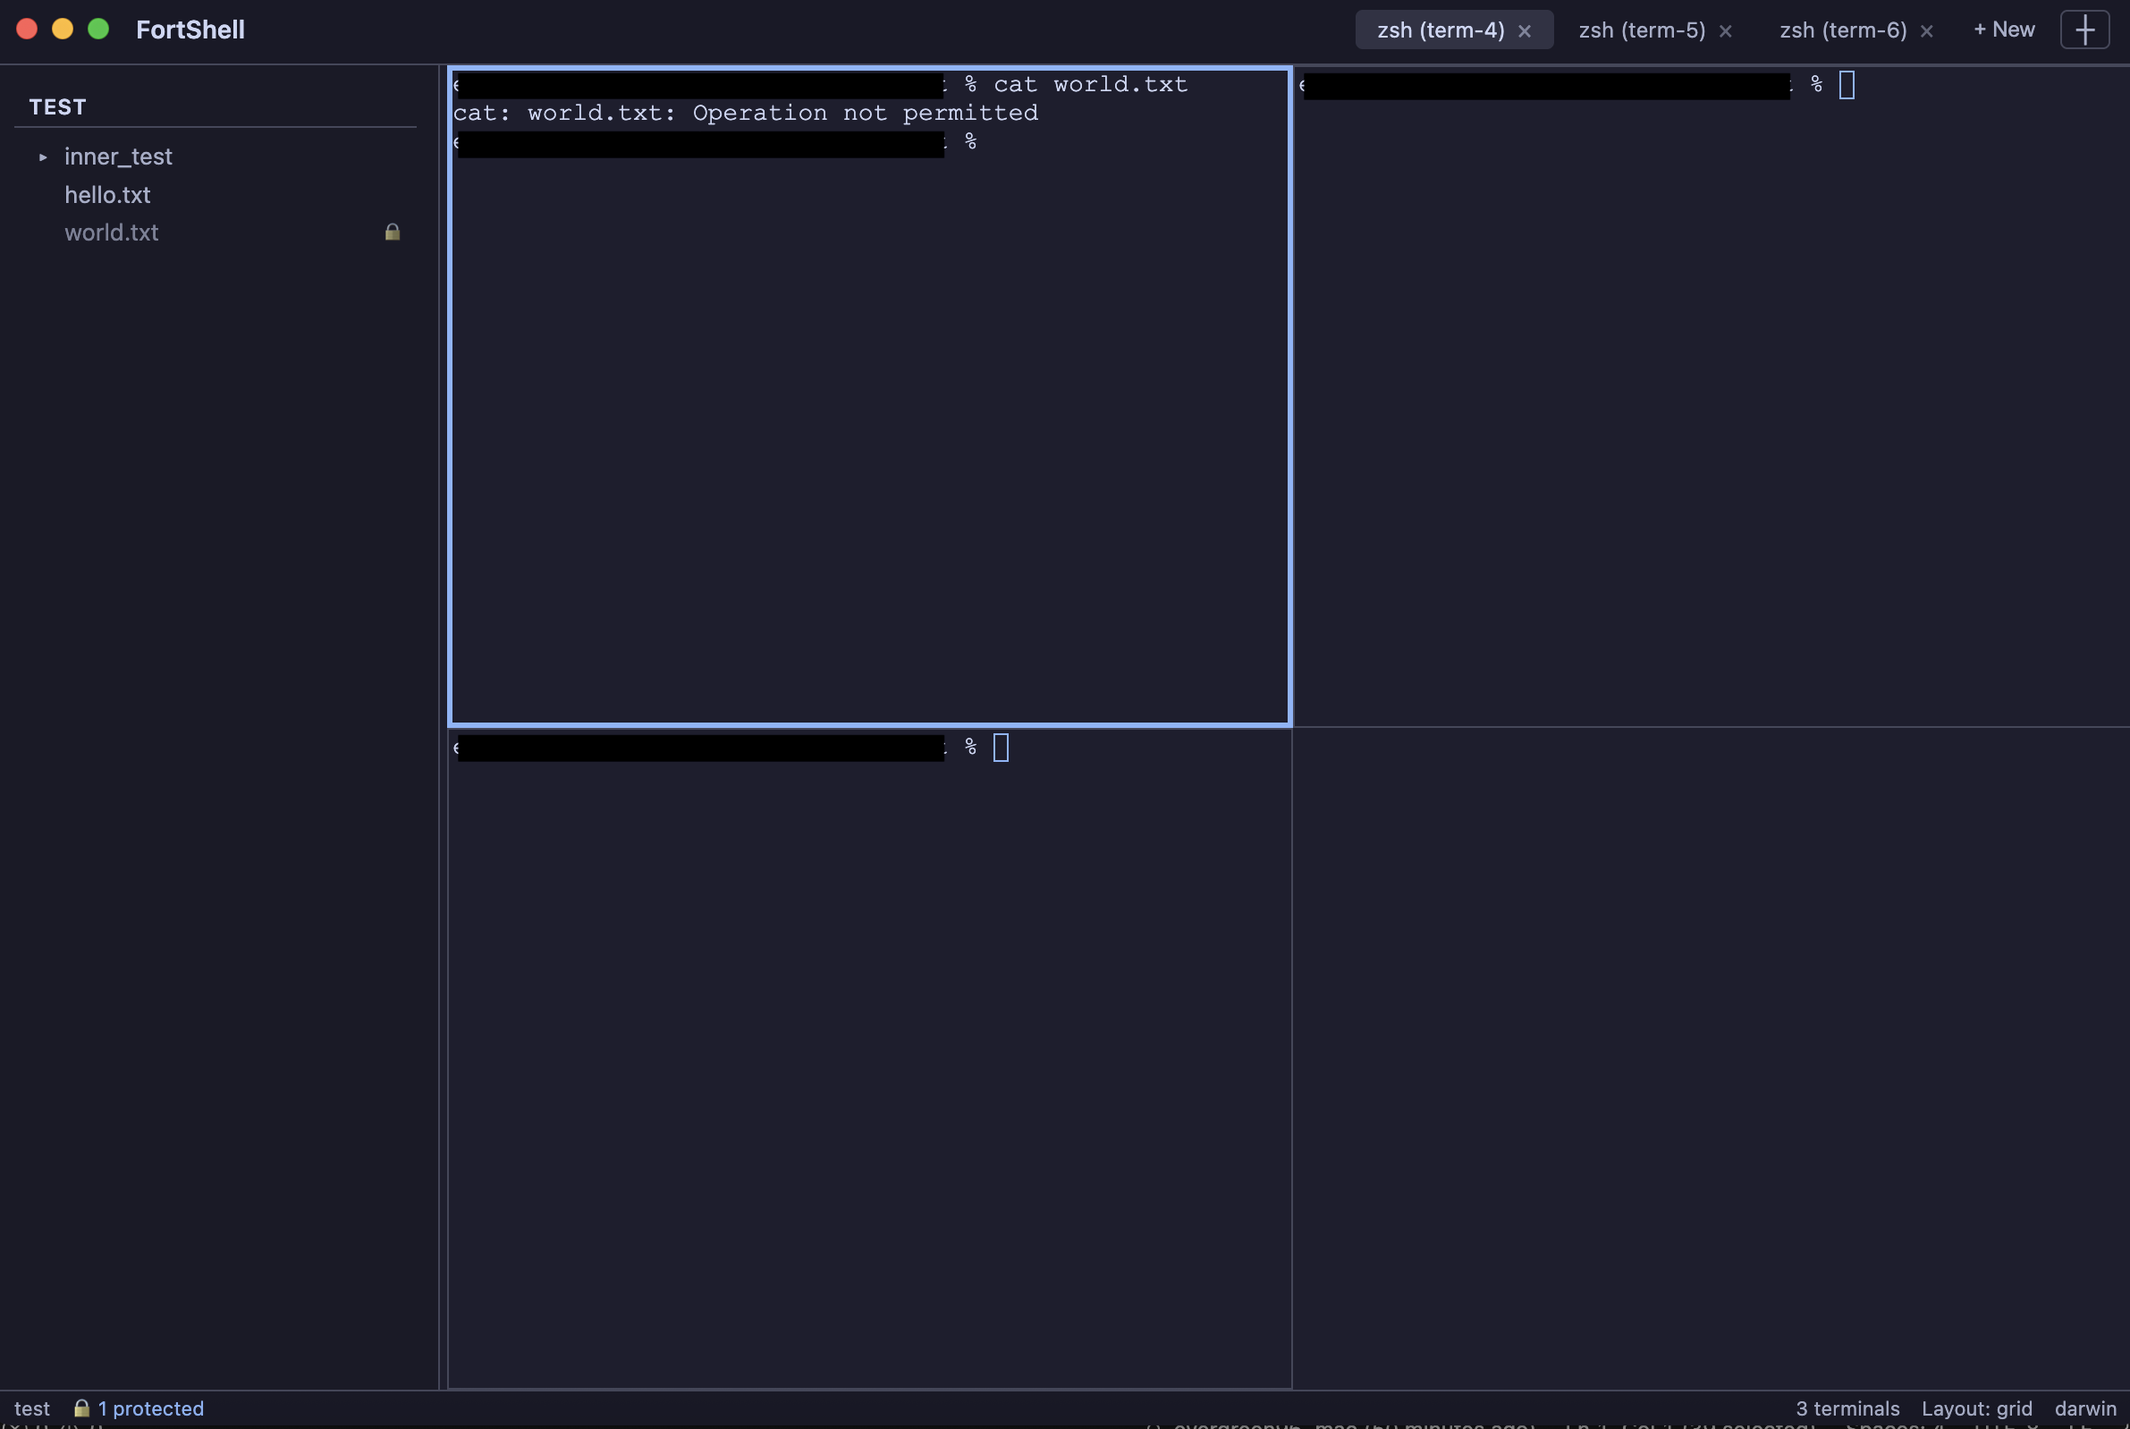
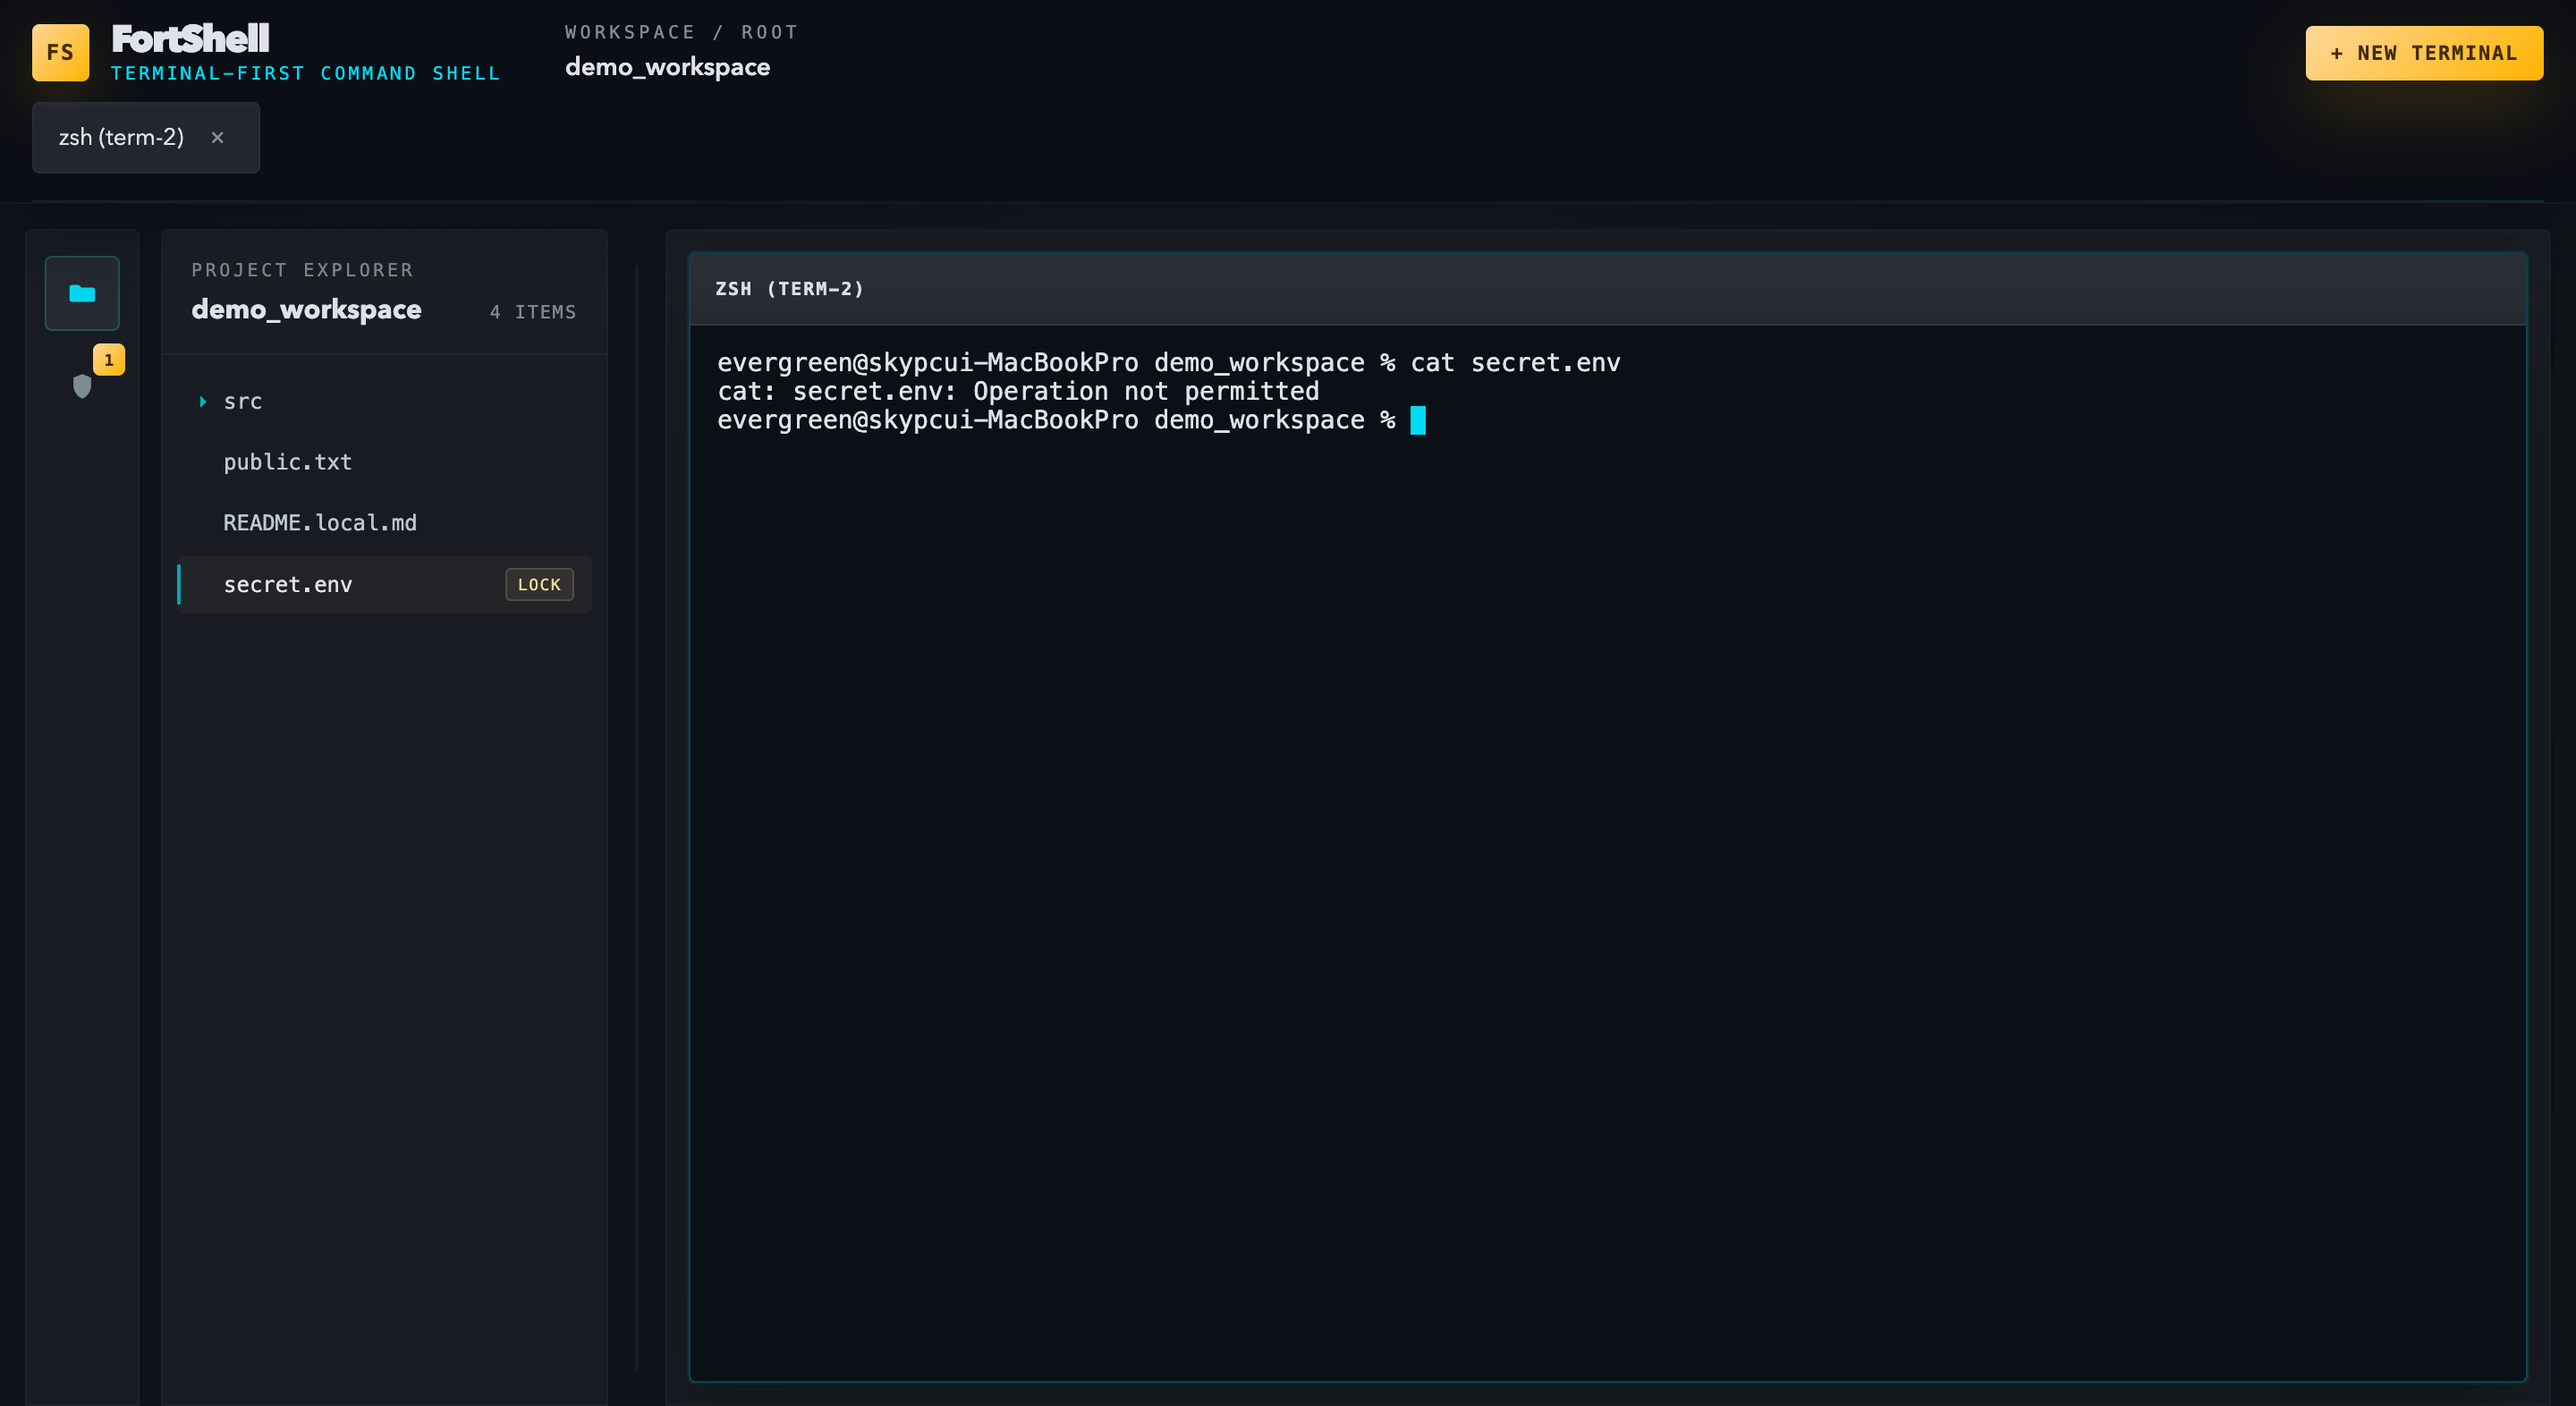
chore: prepare v1.0.5 release assets

diff --git a/README.md b/README.md
@@ -4,7 +4,15 @@ A terminal-first IDE for managing multiple AI CLI tools (Claude Code, Codex CLI,
 
 Protect sensitive files from AI agents — they can see the files exist, but can't read or write them. Enforced by the macOS kernel, not by the app. No admin privileges required.
 
-![FortShell Screenshot](assets/screenshot.png)
+## Screenshots
+
+### Explorer Workspace
+
+![FortShell Explorer Workspace](assets/screenshot.png)
+
+### Protection Center
+
+![FortShell Protection Center](assets/protection-center.png)
 
 ## Why?
 
@@ -36,6 +44,7 @@ PermissionError: [Errno 1] Operation not permitted: '.env'
 - **Per-file or per-folder** — protect individual files or entire directories
 - **User-local policy storage** — protection rules live in FortShell app data, not in your repo
 - **Transparent to the user** — protected files show a lock icon in the file tree
+- **Protection Center** — review active protections, batch-protect by extension, and add new protected paths from a dedicated dashboard
 - **Cannot be bypassed** by the sandboxed process — not even with python, node, or symlinks
 
 | Access method | Blocked? |
@@ -109,7 +118,8 @@ Or via System Settings → Privacy & Security → "Open Anyway".
 
 1. Launch FortShell → **Open Folder** → select your project
 2. A terminal opens automatically in the project directory
-3. Click **+ New** to add more terminals (or choose a specific shell)
+3. Use the left rail to switch between **Explorer** and **Protection**
+4. Click **+ New Terminal** to add more terminals
 
 ### Protecting Files
 
@@ -126,7 +136,8 @@ $ python3 -c "open('.env').read()"
 PermissionError: [Errno 1] Operation not permitted: '.env'
 ```
 
-5. To remove protection: right-click → **Remove Protection**
+5. Open **Protection** from the left rail to review, batch-add, or remove protected paths
+6. To remove protection from Explorer: right-click → **Remove Protection**
 
 ### Settings
 
